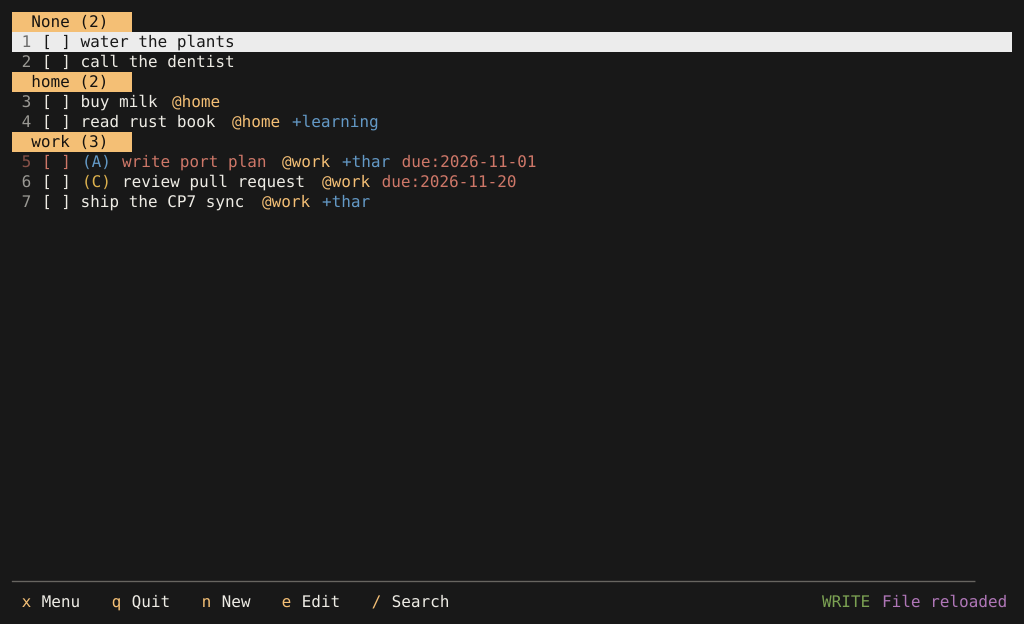
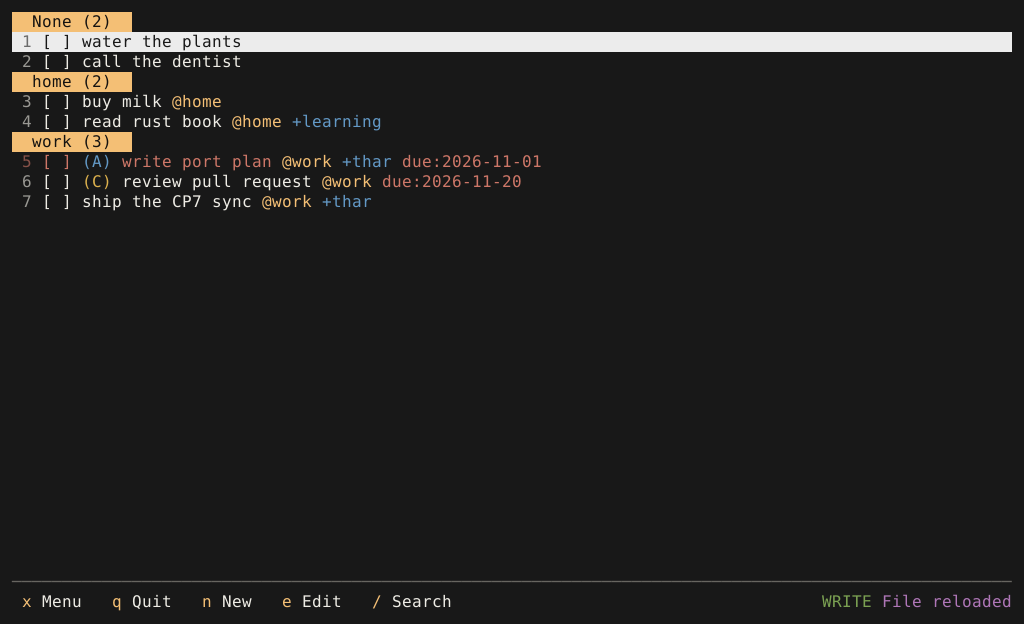
fix(docs): align box-drawing glyphs in PTY screenshots (#81)
* fix(docs): align box-drawing glyphs in PTY screenshots

The SVG generator emitted one <text> per style run, so a long border depended
on every glyph having exactly the cell advance. The fallback font's box
characters do not, and the bottom corner drifted left of the vertical edge.
Emit one <text> per cell instead, then regenerate every PTY asset (CP6, CP7
write/editor/calendar/menu/sync and the modal-padding frame).

* fix(docs): keep wide and combining glyphs on their cell

runs() now records each non-continuation cell with its real column and the
exclusive run end, so a wide character's skipped continuation cell no longer
shifts later glyphs left. Background runs cover the continuation cells and
combining sequences stay attached to their base. Adds wide-char and
combining tests.

---------

diff --git a/crates/thar-cli/tests/pty/screenshot.rs b/crates/thar-cli/tests/pty/screenshot.rs
@@ -3,9 +3,9 @@
 //! This is a manual asset generator, not a CI test: it is `#[ignore]`d and
 //! never runs in the normal suite. It spawns `thar-rs` on a 100x30 PTY with
 //! [`FIXTURE`], waits for the first complete frame, and turns the parsed
-//! `vt100` screen into an SVG with one coloured text run per style run, then
-//! rasterizes that SVG to PNG. The image is what the terminal actually drew;
-//! nothing is mocked or re-laid-out.
+//! `vt100` screen into an SVG with one text element per cell, then rasterizes
+//! that SVG to PNG. The image is what the terminal actually drew; nothing is
+//! mocked or re-laid-out.
 //!
 //! Run it from the repository root:
 //!
@@ -141,7 +141,7 @@ pub(crate) fn svg(screen: &vt100::Screen) -> String {
         }
 
         for run in &runs {
-            if run.text.trim().is_empty() {
+            if run.cells.is_empty() {
                 continue;
             }
             let mut attributes = format!("fill=\"{}\"", hex(run.foreground));
@@ -151,12 +151,22 @@ pub(crate) fn svg(screen: &vt100::Screen) -> String {
             if run.dim {
                 attributes.push_str(" fill-opacity=\"0.6\"");
             }
-            svg.push_str(&format!(
-                "    <text x=\"{}\" y=\"{}\" {attributes} xml:space=\"preserve\">{}</text>\n",
-                MARGIN + u32::from(run.start) * CELL_WIDTH,
-                MARGIN + u32::from(row) * CELL_HEIGHT + BASELINE,
-                escape(&run.text)
-            ));
+            // One text element per cell. A single run would depend on every
+            // glyph having exactly CELL_WIDTH advance; box-drawing characters
+            // in the fallback font do not, so a long border drifts and the
+            // corner lands left of the vertical edge. Positioning each glyph
+            // by the cell column keeps the SVG faithful to the grid.
+            for (column, contents) in &run.cells {
+                if contents.trim().is_empty() {
+                    continue;
+                }
+                svg.push_str(&format!(
+                    "    <text x=\"{}\" y=\"{}\" {attributes} xml:space=\"preserve\">{}</text>\n",
+                    MARGIN + u32::from(*column) * CELL_WIDTH,
+                    MARGIN + u32::from(row) * CELL_HEIGHT + BASELINE,
+                    escape(contents)
+                ));
+            }
         }
     }
 
@@ -167,7 +177,10 @@ pub(crate) fn svg(screen: &vt100::Screen) -> String {
 /// One run of cells that share a foreground, background, bold and dim.
 struct Run {
     start: u16,
-    text: String,
+    /// Exclusive end column, including the continuation cells of wide glyphs.
+    end: u16,
+    /// The contents of each non-continuation cell, with its real column.
+    cells: Vec<(u16, String)>,
     foreground: [u8; 3],
     background: [u8; 3],
     bold: bool,
@@ -175,10 +188,9 @@ struct Run {
 }
 
 impl Run {
-    /// Width in terminal cells. The fixture is ASCII, so one `char` is one
-    /// cell; a wide character would need its continuation cell skipped.
+    /// Width in terminal cells.
     fn width(&self) -> u32 {
-        u32::try_from(self.text.chars().count()).unwrap_or(0)
+        u32::from(self.end.saturating_sub(self.start))
     }
 }
 
@@ -191,7 +203,11 @@ fn runs(screen: &vt100::Screen, row: u16, cols: u16) -> Vec<Run> {
         };
         let contents = cell.contents();
         if contents.is_empty() {
-            // The continuation cell of a wide character.
+            // The continuation cell of a wide character: the run's painted
+            // background covers it, but there is no glyph to emit.
+            if let Some(run) = runs.last_mut() {
+                run.end = col.saturating_add(1);
+            }
             continue;
         }
 
@@ -207,10 +223,14 @@ fn runs(screen: &vt100::Screen, row: u16, cols: u16) -> Vec<Run> {
                 && run.dim == cell.dim()
         });
         match continuation {
-            Some(run) => run.text.push_str(contents),
+            Some(run) => {
+                run.cells.push((col, contents.to_owned()));
+                run.end = col.saturating_add(1);
+            }
             None => runs.push(Run {
                 start: col,
-                text: contents.to_owned(),
+                end: col.saturating_add(1),
+                cells: vec![(col, contents.to_owned())],
                 foreground,
                 background,
                 bold: cell.bold(),
@@ -318,4 +338,42 @@ fn cp6_paste_fix_screenshot() {
         0,
         "the screenshot run must exit cleanly"
     );
+}
+
+#[cfg(test)]
+mod tests {
+    use std::num::NonZeroU16;
+
+    use super::runs;
+
+    fn cells(input: &str, cols: u16) -> Vec<(u16, String)> {
+        let mut parser = vt100::Parser::new(
+            NonZeroU16::new(2).expect("rows"),
+            NonZeroU16::new(cols).expect("cols"),
+            0,
+        );
+        parser.process(input.as_bytes());
+        runs(parser.screen(), 0, cols)
+            .into_iter()
+            .flat_map(|run| run.cells)
+            .collect()
+    }
+
+    #[test]
+    fn wide_characters_keep_their_real_columns() {
+        let cells = cells("日本語abc", 10);
+        assert_eq!(
+            cells.iter().map(|(col, _)| *col).collect::<Vec<_>>(),
+            [0, 2, 4, 6, 7, 8]
+        );
+        assert_eq!(cells[0].1, "日");
+        assert_eq!(cells[3].1, "a");
+    }
+
+    #[test]
+    fn a_combining_sequence_stays_in_one_cell() {
+        let cells = cells("e\u{301}x", 4);
+        assert_eq!(cells[0], (0, "e\u{301}".to_owned()));
+        assert_eq!(cells[1], (1, "x".to_owned()));
+    }
 }
